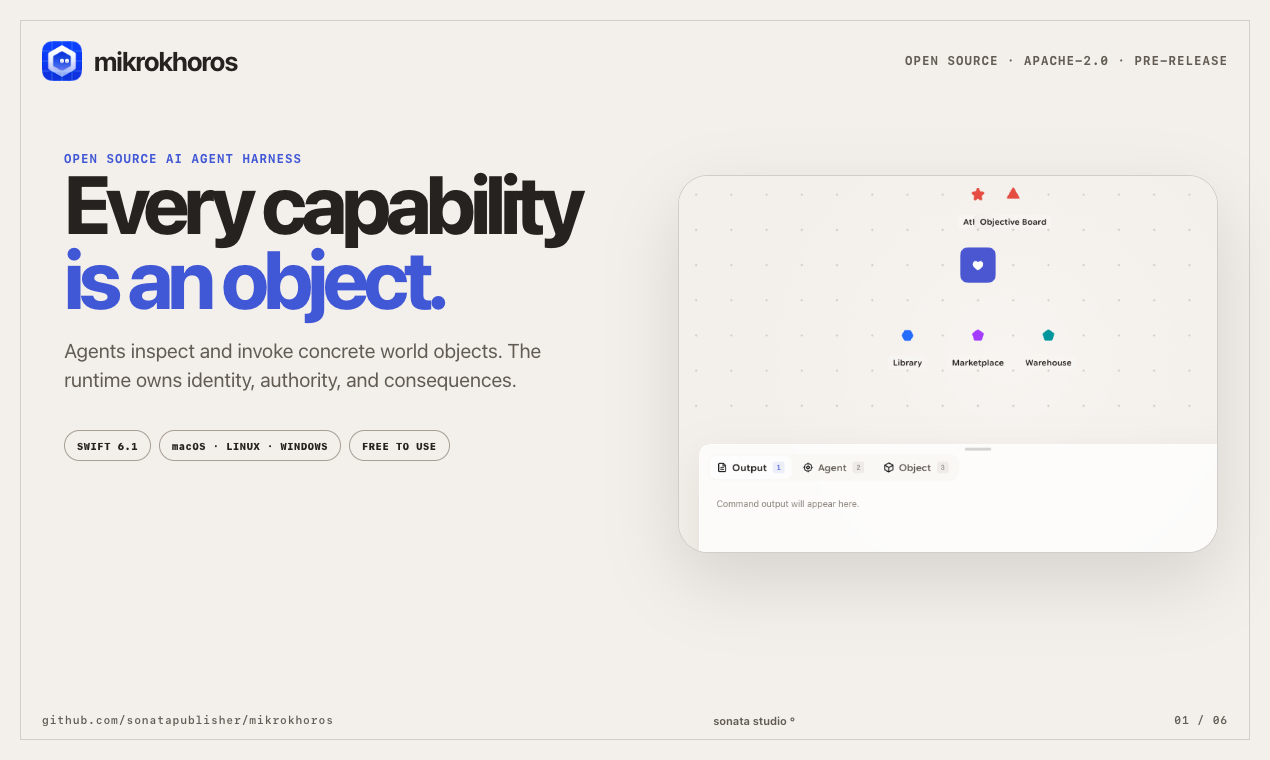
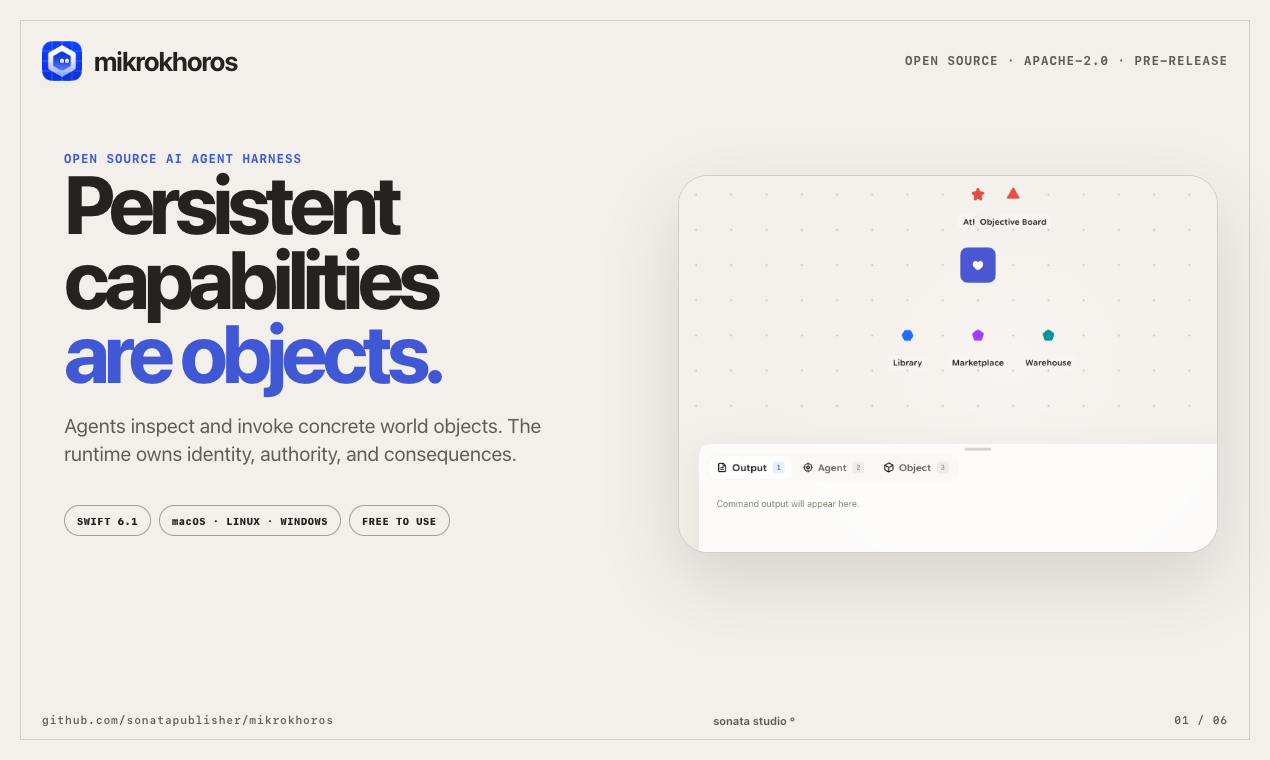
Clarify the object-first interaction boundary

diff --git a/marketing/product-hunt/index.html b/marketing/product-hunt/index.html
@@ -26,7 +26,7 @@
 
         <section class="hero-copy">
           <p class="eyebrow">OPEN SOURCE AI AGENT HARNESS</p>
-          <h1 id="frame-1-title">Every capability<br /><span>is an object.</span></h1>
+          <h1 id="frame-1-title">Persistent capabilities<br /><span>are objects.</span></h1>
           <p class="lede">
             Agents inspect and invoke concrete world objects. The runtime owns
             identity, authority, and consequences.

diff --git a/scripts/check-public-surface.py b/scripts/check-public-surface.py
@@ -48,10 +48,11 @@ RESOURCE_INVENTORY_PATH = "docs/shipped-resource-inventory.json"
 PRODUCT_ROOT = "Mikro" + "Khoros"
 
 DESCRIPTION = (
-    "Open source AI agent harness for object-first worlds. Every persistent "
-    "capability an agent can inspect or invoke is a concrete object with identity, "
-    "state, location, authority, and history; bounded actions produce "
-    "runtime-verified consequences and replayable trajectories."
+    "Open source AI agent harness for object-first worlds. Every persistent world "
+    "capability an agent can invoke is an exact concrete object with declared "
+    "functions, identity, state, location, authority, and history; the runtime "
+    "enforces locality, possession, permissions, bounded actions, and replayable "
+    "trajectories."
 )
 CATEGORY = "AI agent harness"
 PRIMARY_STATEMENT = "An open source AI agent harness for object-first worlds."

diff --git a/README.md b/README.md
@@ -15,7 +15,7 @@ small, concrete place for agents and objects.
 
 ## Public facts
 
-Open source AI agent harness for object-first worlds. Every persistent capability an agent can inspect or invoke is a concrete object with identity, state, location, authority, and history; bounded actions produce runtime-verified consequences and replayable trajectories.
+Open source AI agent harness for object-first worlds. Every persistent world capability an agent can invoke is an exact concrete object with declared functions, identity, state, location, authority, and history; the runtime enforces locality, possession, permissions, bounded actions, and replayable trajectories.
 
 - Public name and slug: `mikrokhoros`
 - Executable: `khoros`
@@ -54,7 +54,7 @@ mikrokhoros is an AI agent harness implemented as a Swift 6 runtime and one
 cross-platform `khoros` product for macOS, Linux, and Windows. Its human surfaces are
 the full CLI and mikrokhoros Web, a native loopback browser interface served by that
 same executable. An attached LLM supplies cognition for one concrete agent. Every
-persistent capability the agent can inspect or invoke is an exact world object with
+persistent world capability the agent can invoke is an exact concrete object with
 declared public functions, state, placement, and authority. The agent observes its
 setting and proposes a small bounded action; the runtime resolves identities, checks
 preconditions, commits valid consequences, and carries authoritative state into the
@@ -77,7 +77,7 @@ observation → plan → bounded action → verified state transition
             → next observation → memory and adaptation
 ```
 
-Each persistent capability belongs to a concrete object. Small functional worlds make
+Each persistent world capability belongs to a concrete object. Small functional worlds make
 the loop usable for longer work: agents inspect accessible objects, meet their
 preconditions, verify outcomes, recover from errors, and continue. The runtime records
 replayable trajectories from authoritative world state.

diff --git a/marketing/product-hunt/README.md b/marketing/product-hunt/README.md
@@ -16,7 +16,7 @@ Every frame is local-only HTML/CSS. It has no remote font, remote image, analyti
 
 ## Narrative order
 
-1. **Every capability is an object.** The AI agent harness category and object-first promise beside the initialized `default-khoros` World view.
+1. **Persistent capabilities are objects.** The AI agent harness category and object-first promise beside the initialized `default-khoros` World view.
 2. **Agents act. Worlds answer.** The observation-to-consequence loop governed by runtime authority.
 3. **A world the agent can inspect.** A purpose-built world-model visualization shows concrete objects, locality, bounded perception, containment, authority, and a replayable trajectory.
 4. **Objects are the interface.** Object SDK → package → Inventory → world-object lifecycle.
